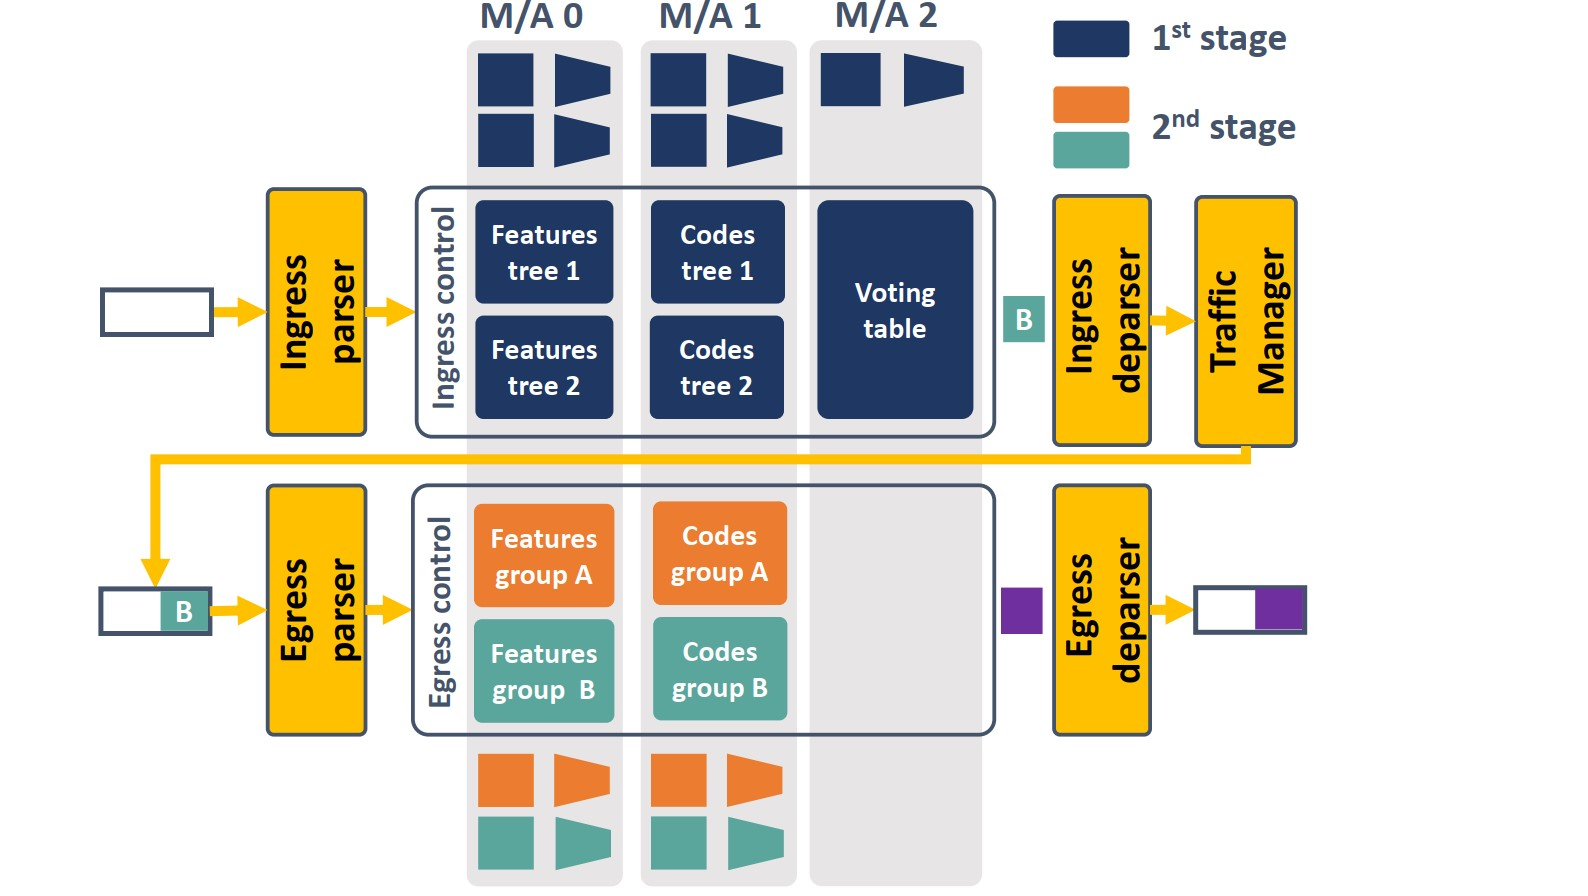
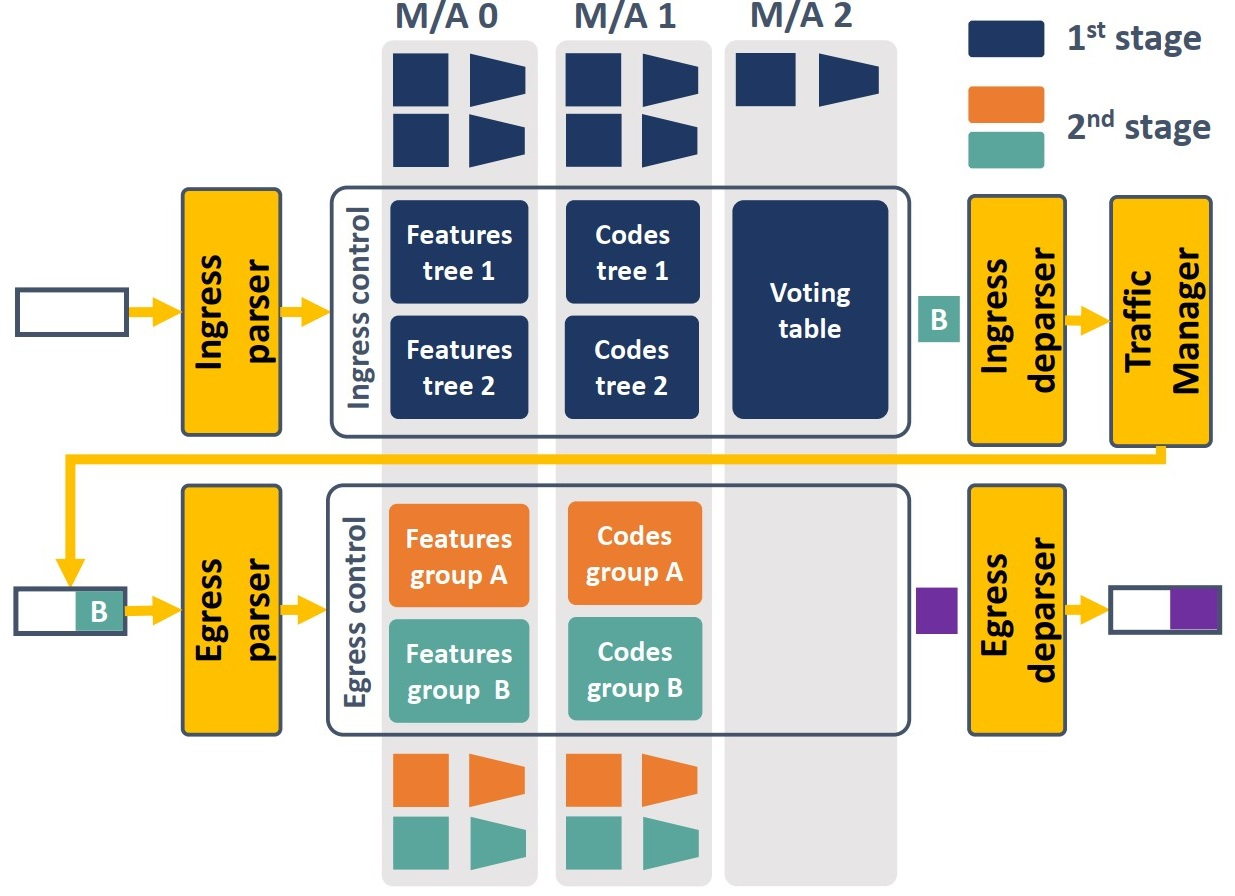
image

diff --git a/README.md b/README.md
@@ -3,7 +3,7 @@
 This repository contains the public version of the code for our work Henna, presented at the 1st CONEXT Workshop on Native Network Intelligence (NativeNI), 9 December 2022, Roma, Italy.
 
 # What is Henna?  
-<img src="henna_cascaded.jpg" alt="Henna Cascaded Design" style="height: 600px; width:800px;"/>
+<img src="henna_cascaded.jpg" alt="Henna Cascaded Design" style="height: 600px; width:600px;"/>
 Henna is a first in-switch implementation of a hierarchical classification system. The concept underpinning our solution is that of splitting a difficult classification task into easier cascaded decisions, which can then be addressed with separated and resource-efficient tree-based classifiers. We propose a design of Henna that aligns with the internal organization of the Protocol Independent Switch Architecture (PISA), and integrates state-of-the-art strategies for mapping decision trees to switch hardware. We then implement Henna into a real testbed with off-the-shelf Intel Tofino programmable switches using the P4 language.  
 
 For more details, please consult our paper: https://doi.org/10.1145/3565009.3569520
